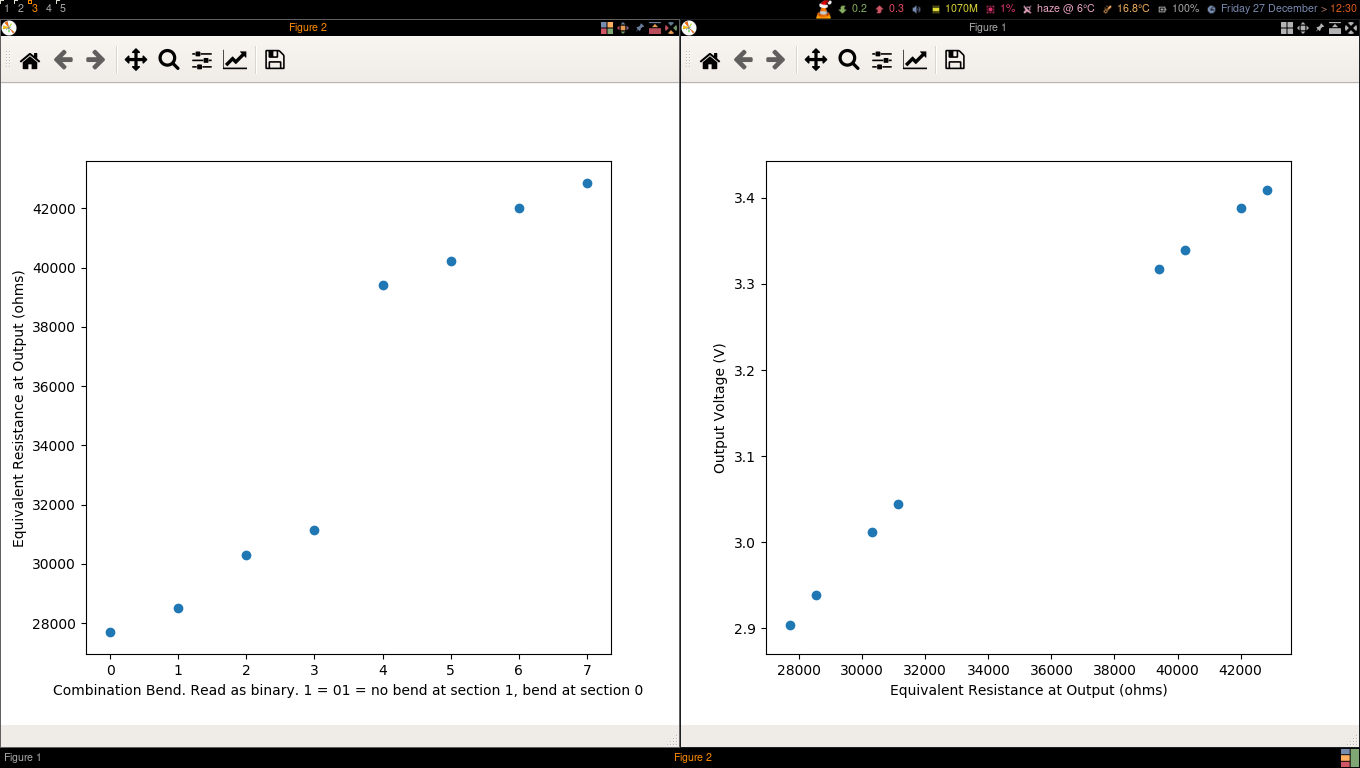
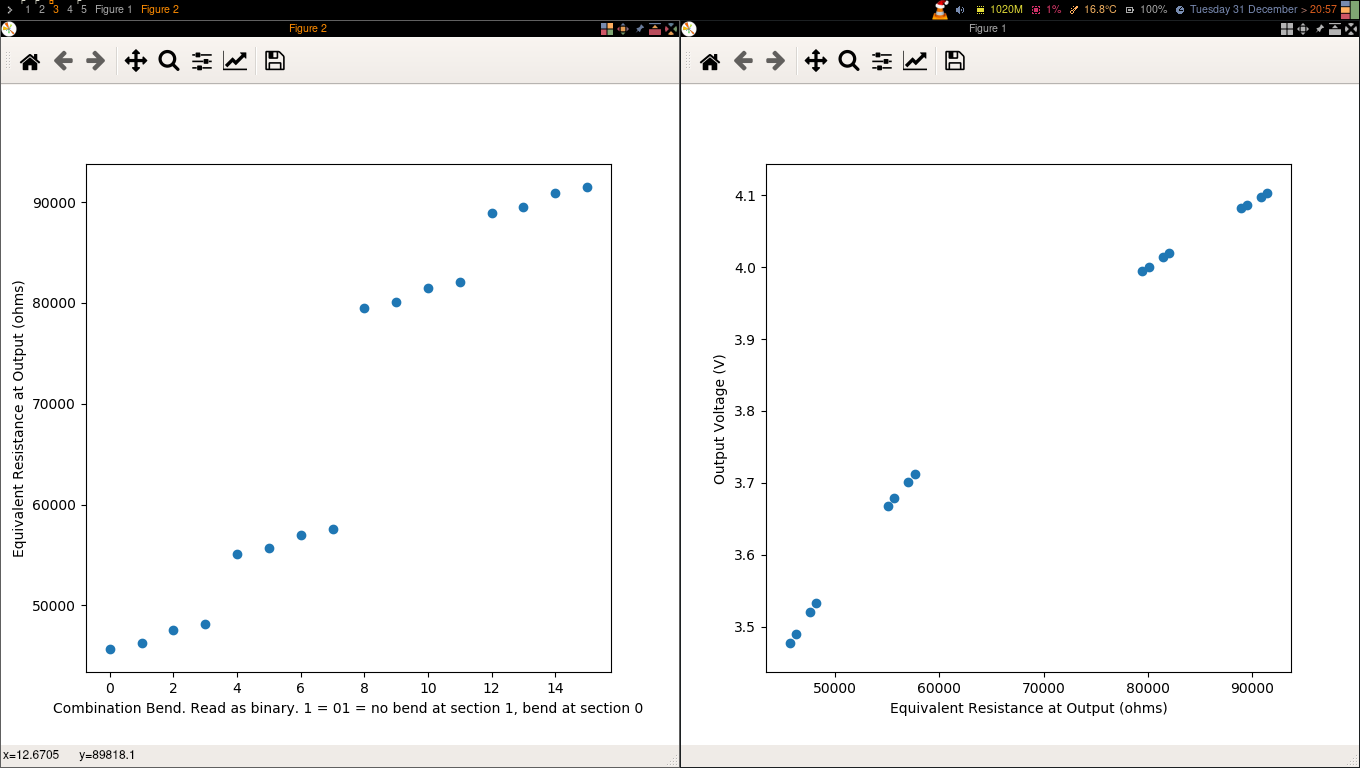
Replaced picture of result with one reflecting 4 sections.

diff --git a/flex_circuit_sim/read-rope-flex-resistor-circuit-sim.py b/flex_circuit_sim/read-rope-flex-resistor-circuit-sim.py
@@ -150,14 +150,14 @@ def SimulateReadRopeWithFlexSections(num_sections):
 	
 # Main Program
 
-num_sections = 3;
+num_sections = 4;
 #set the values for limiter resistors
 #limiter resistors are the resistors that are in parallel with a flex resistor
 #These are used as scale factors to determine how big the change in resistance is from a bend in a section
 #Ideally the limiter resistors increase in value along the rope to make distinct identifiable changes for different bends.
 
 #Required: number of limiter resistors = number of sections
-resistor_limiter_val_list = [6e3,12e3,36e3];
+resistor_limiter_val_list = [5e3,10e3,30e3,120e3];
 
 #Good combos:
 # 4 sections, [5e3,10e3,30e3,120e3]
